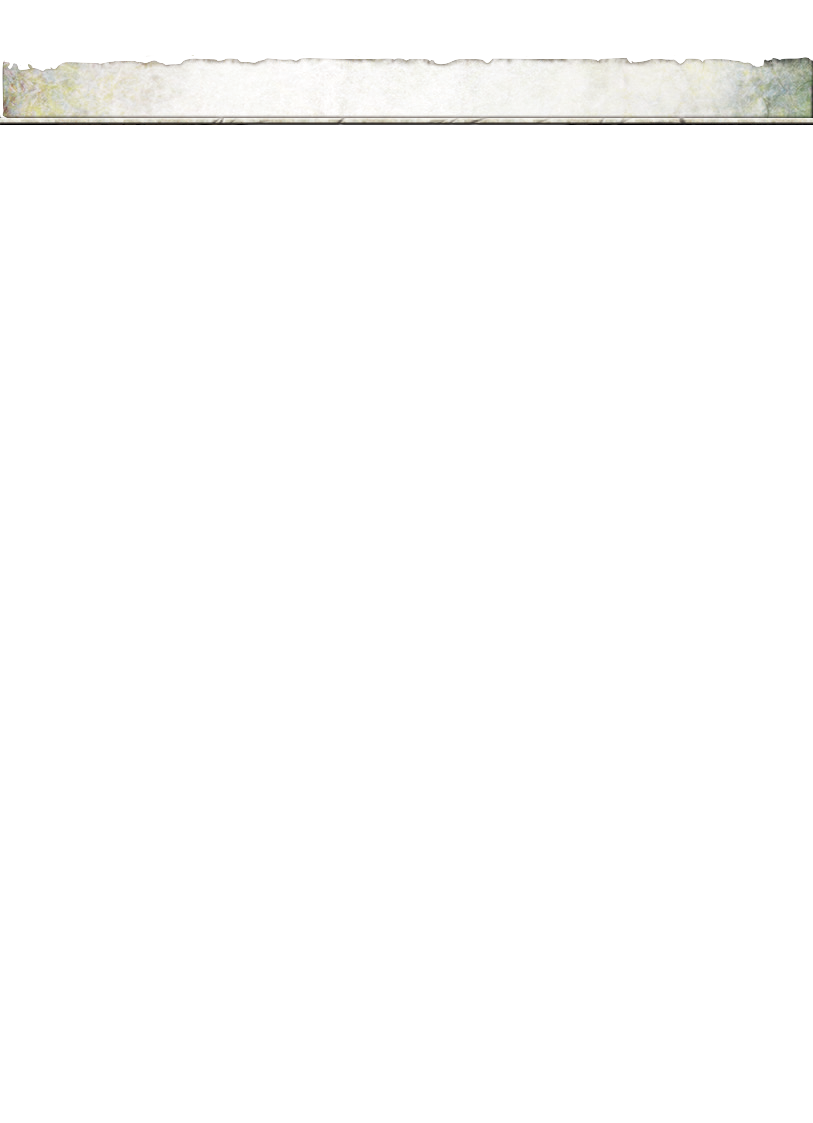
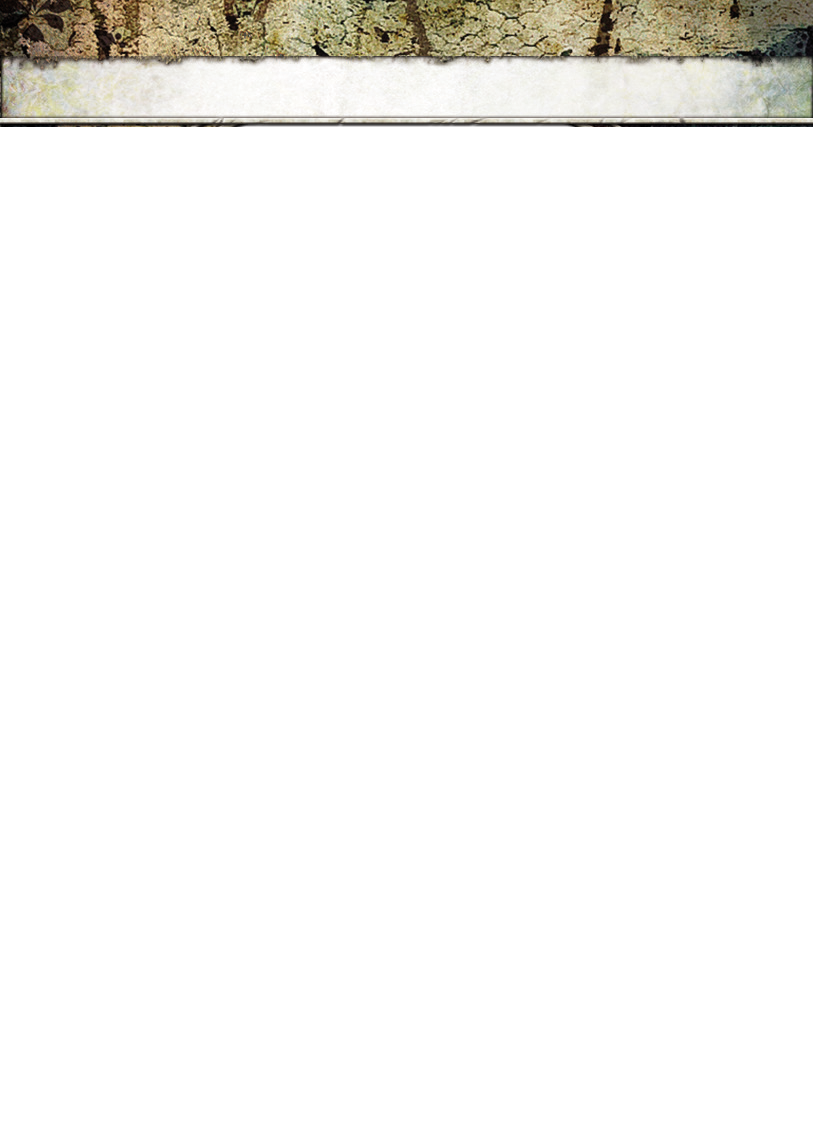
파일명 변경 blank_title_2 -> blank_title_1

Changed region(s): [[0.0, 0.0, 1.0, 0.1247]]

diff --git a/src/routes/card_editor/CardCutter.svelte b/src/routes/card_editor/CardCutter.svelte
@@ -162,7 +162,7 @@ import { CardPositionStore } from '$lib/store';
 
 		if (isRenderBlankTitle) {
 			const blankTitle = new Image();
-			blankTitle.src = '/resources/blank_cards/blank_title_2.png';
+			blankTitle.src = '/resources/blank_cards/blank_title_1.png';
 			blankTitle.addEventListener('load', () => {
 				const titleCanvas = document.createElement('canvas');
 				const titleContext = titleCanvas.getContext('2d') as CanvasRenderingContext2D;
